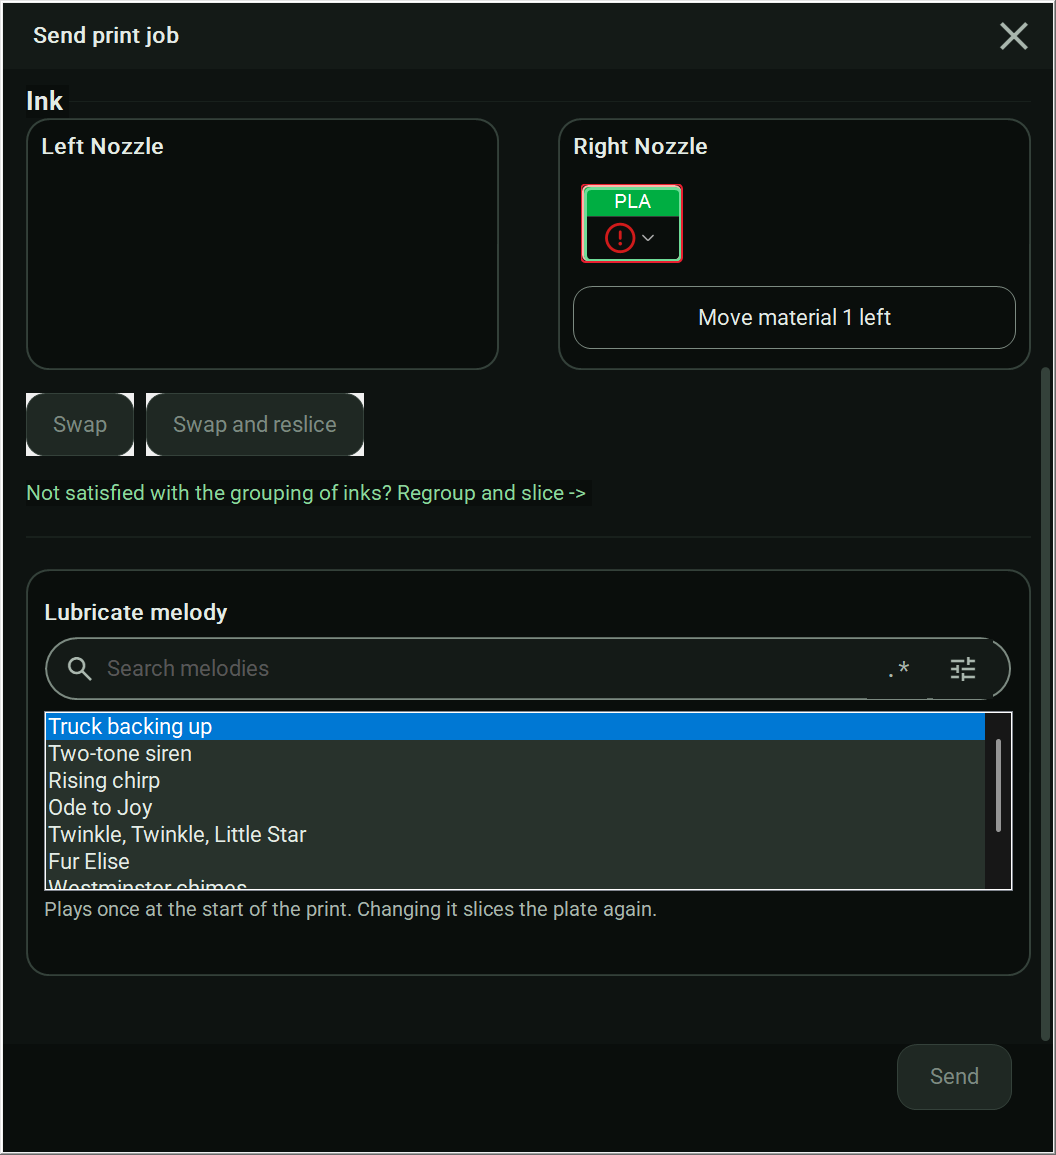
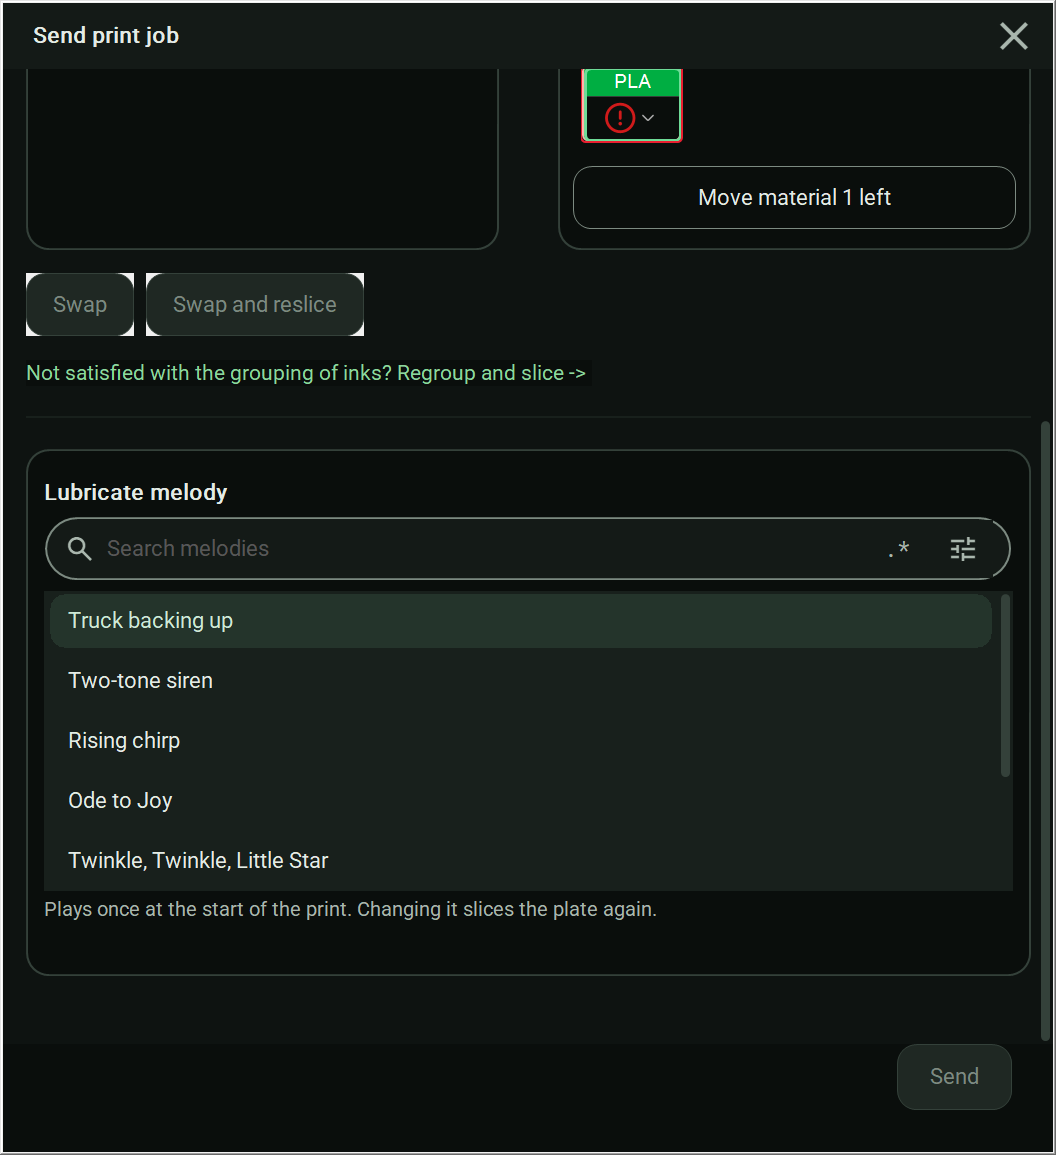
Record lubricate mode in the handoff and refresh its captures
The captures are taken again from the app built from 1b10b4887: the
melody list in its proper green coat, the Process page after a setting
changes (no sideways scroll bar), and the All Plates Stats tile with its
icon sitting above the label instead of on it. The handoff, roadmap and
closeout prompt now say what was checked, what still needs a real H2C,
and that the Device page still scrolls sideways until it is reflowed.

截圖全部用 1b10b4887 砌出嚟嗰個版本重新影過：旋律列表終於換返件綠色
衫，Process 頁改完設定唔會再彈條橫向捲軸出嚟，All Plates Stats 個圖示
都識得企喺標籤上面，唔再坐埋人哋頭上。交接、路線圖同收尾提示都寫清楚
邊啲已經驗過、邊啲要等真 H2C，同埋 Device 頁未重新排版之前仲係會打橫
捲。

diff --git a/CLOSEOUT_PROMPT.md b/CLOSEOUT_PROMPT.md
@@ -1,92 +1,31 @@
 # Current implementation handoff
 
-Continue the approved 117-item required-feature plan. Latest direction removes
-sender drop codes. No upstream merge is authorized. The full goal remains active
-and incomplete; account allowance is unknown.
+Latest work: lubricate mode and print melodies (10 November 2026). The full
+record is the first section of HANDOFF.md and the first section of ROADMAP.md.
 
-## Preserved source
+## State
 
-Remote main 2c2c76f8612a6b7cf3643be8b9bae6da82ec54f9 was read back exactly.
-It includes direct sending, isolated wording storage, Base64 conversion and the
-content-free Preferences probe. Native acceptance remains separate.
+Lubricate mode, the print dialog melody list, melody playback at every print
+start, the design boards, the captures from the built app, the article with its
+Cantonese twin and the catalog strings are all on main. The last source commit,
+1b10b4887, was built with `build.bat -BuildOnly` and checked on a hidden
+desktop: a changed preset no longer adds a horizontal scroll bar on the Process
+page, the melody list uses the app's own list, the search field outline is
+clean, and the All Plates Stats tile draws its icon above its label.
 
-The startup branch gap/startup-nonmodal-20261107 contains reviewed correction
-dc254de965dea8b441a3cab8110b66090ea97694. Automatic restoration uses detached
-conservative admission and nonmodal recovery. Manual imports remain interactive.
-Native-project classification preserves negative-Z and zero-volume geometry.
-Production-function fixtures and causal mutations passed; actual archive parsing,
-preset-editor and native scenario acceptance remain pending. The translated
-notice brings the catalogue to 10,268 entries. This records state before its own commit.
+## Open
 
-The separate hosting-companion branch gap/lan-setup-wizard-20261107 was pushed at
-ed55a003f333ffc01b5879b853f8eedc7d9b6f05. Its portable package ran on a hidden
-desktop against the existing service, preserving identity, storage and settings.
-All five owned processes and its desktop closed normally. Two display defects
-were found. Reviewed correction 9eeafe7dabb4f2b3c5ae7baac66d349f31108862 fixes
-polling, terminal Cancel feedback and verified-image display. It is now pushed
-and verified, with portable SHA-256
-bc1bd891e8e4ebf91e020eeb211997018fefb0d233d1b3f1e4810f5e2b06cbfa.
-Actual hidden runtime reached the healthy result automatically, displayed verified
-identity and retained keyboard access at 640 x 520. All five held processes and
-the desktop closed normally; selected service state stayed unchanged. The current
-main integration records that bounded result, not fresh-setup or full-matrix proof.
+- Run lubricate mode and the melodies on a real H2C and confirm how `M1006 W`
+  paces the moves.
+- Capture the Lubricate confirmation and the button while printing (needs a
+  connected printer), the regex builder popover, and the light theme and
+  Cantonese layouts.
+- Reflow the Device page, which scrolls sideways at 1200x800 because its ink
+  column sits right of the Control column.
+- A long preset name with the changed marker is cut at the right edge of its
+  box.
+- The earlier Cantonese song title wording remains in the history of
+  fa929bfbb; changing it needs a history rewrite, which is not authorized.
 
-## Verified behavior and limits
-
-- Published container 1.0.1 from 601003f9b97d8945732d5a166f8dbe2b061d040f has digest sha256:9382599181a32a5d78730c82b315612fcadc51beacea0ad3b831500e122ce51a.
-- A real browser uploaded a synthetic STL with HTTP 201 and no X-Drop-Code. Six language/viewport tuples passed accessible controls, keyboard, overflow and code-field absence checks.
-- host.bat --detached updated the existing service while preserving station authentication, data volume and queued models. Local and second-host LAN health passed.
-- Packaged 6eb975873 retained a synthetic invalid project tab, opened Untitled and restarted without repeating automatic loading. Its first loader dialogs are addressed only in newer source.
-- A private byte-identical active-project copy passed installed 2.9.1932's native --info reader with exit 0. Original project/configuration stayed unchanged. This does not identify the GUI startup cause.
-- Preferences reopened at 1050 x 720, 96 DPI. Display affinity 17 protects credentials; black images are not layout evidence. The new six-role geometry probe passed source fixtures, negative mutations and actual wx-header compilation, not linked native acceptance.
-- Base64 core checks passed 363 assertions and two causal mutations. Native picker/drop, folder action, packaged worker, streaming and remaining variants are unfinished.
-
-## Producers and delivery
-
-The primary checkout is a live producer pinned to 2c2c76f8612a6b7cf3643be8b9bae6da82ec54f9. The older 4f7039f6 producer compiled the GUI but failed linking because ignored OpenCASCADE cache metadata referenced an obsolete checkout. Its metadata was backed up, two references were relocated to the existing verified freetype library, and the current root build is running. Do not alter primary source/index/branch until completion.
-
-Run 42419260043 produced downloaded installer 2.9.1936 from f1526f802.
-Setup SHA-256 is 6e9abd326b9580fbfbae51c30788c1814d066df77bee71eef3206efc1faf0777;
-NotSigned. RELEASES matches the 800,258,329-byte full package and SHA-1
-8769869A70D784E2FCFF25DEB19AAD92E8783776. Embedded metadata names exact source
-f1526f80268c67df5a6ff196b865b7b0118412cb. Normal release md3-v261 was published at 23:34:33 UTC with exact source f1526f802
-and matching published Setup hash. The matching existing installation updated from 2.9.1932 to 2.9.1936 through supported silent Setup. Installed executable/DLL hashes matched and the real hidden workspace was ready. Prior full package/index were retained for rollback. All held verification processes and both desktops closed normally. Complete transient installer audit and updater-banner sequencing remain unverified. Runs 42420781736 (d73) and
-42422172095 (825) are separate newer producers.
-
-## Next actions
-
-1. Startup source/documentation are integrated. Finish the newer native scenarios with exact source/binary binding.
-2. Wizard rebuild and existing-service runtime passed. Reviewed publisher ca9b96968ef3a7116512e68465fae0377348e647 is preserved on gap/lan-setup-publication-20261107 and included in this integration. Its first hosted publication, fresh setup, cancellation and full language/theme/scale matrix remain pending.
-3. The public-safe inventory has passed independent review and is incorporated with 117 identities, nine classes, 28 historical surfaces and 15 legacy crosswalks. Nine negative consistency checks passed. Complete individual applicability, nested dialogs, Settings consumers and runtime evidence next; no implementation completeness is claimed.
-4. Verify normal release, immutable tag/source and assets before updating the matching existing installation through its supported route. Preserve settings, data, rollback and active work.
-5. Complete native invite, cache-isolation, sound and Base64 acceptance. Keep the complete required-feature goal explicitly unfinished.
-
-The HTTP LAN sender still reports an ignored COOP header warning. Four baseline
-process trees closed normally but their empty desktops remain retained; sender
-browser teardown has an incomplete process-tree receipt. Full publication scanning
-has baseline technical-name/nested-repository/parser limits; scoped scans are not
-blanket proof. Status Hub SSH delivery lacks a verified host-local update client.
-
-Two f152 candidate launches were normally closed. The first synthetic profile
-omitted its terminal LF and triggered an unchanged settings-parser exception.
-The corrected run's readiness check selected a hidden preconstructed Settings
-window and did not obtain a main-workspace image. It does not establish a product
-regression or visible workspace acceptance. The final method-corrected attempt
-verified the actual main workspace in 27.364 seconds and opened Preferences.
-Its visible Preferences window has display affinity 17; the black image is not
-a rendering defect. All 16 held processes and the desktop closed normally.
-Detailed LAN invite and wording workflows remain unverified; the accepted installed update is applied and its ready workspace verified. The current small source correction
-removes the external-editor Browse button's duplicate download-path accessible
-name. Native assistive-technology verification remains pending.
-
-Preserve source and private evidence. No force pushes, private wording publication,
-host power/login actions, capture-protection changes or cleanup of active,
-unrelated or unproven candidates. Verify each intended push by exact remote-ref readback.
-
-The untracked runtime log log_iotc.txt was moved to private verification storage after exclusive-open and hash-preservation checks. It was not published or ignored to conceal source. The primary source tree was clean before the current build.
-
-First portable publisher run 42425950237 failed before packaging because Get-FileHash was unavailable in the child shell. No companion release exists from that run. Bounded diagnostics were retained; the exact parent-shell cause was reproduced and correction 5ae1162b41ae8f22f5fcf476c950966814dd01a7 changes only the workflow build shell to cmd. Its owning branch was pushed and read back. Hosted verification is pending.
-
-Reviewed bounded Settings consumer coverage is now preserved in design/settings-consumer-coverage.json, tied to baf9303d. It covers 21 groups and 23 identities, 85 setting candidates, 21 headings and reset-list evidence. All 117 identities remain, with 94 mappings pending and all runtime claims unverified. Two conditional argument extractions and the external-editor selector were corrected by independent review. Continue per-control consumers, persistence/reset/recovery and actual native verification.
-
-Installed personal wording passed actual picker import, isolated cache equality, restart retention, invalid-input preservation, neutral replacement and Clear/original-status checks. Both process trees/desktops closed normally. A preliminary hidden-label substring inference was withdrawn in a preserved correction receipt; neither hidden nor visible mapping is accepted from that comparison. Clear-after-restart, sound outcomes, export/log privacy and complete display proof remain pending.
+Earlier open work from the 117-item required-feature plan is unchanged and is
+listed in HANDOFF.md and ROADMAP.md.

diff --git a/design/lubricate-2026-11/captures/README.md b/design/lubricate-2026-11/captures/README.md
@@ -10,7 +10,9 @@ was kept. The commit in each row is the source the app was built from.
 | [process-tabs.png](process-tabs.png) | The Process page on first open: both rows of setting categories show, Support and Others included | `4c418ea3a` |
 | [lubricate-mode-on.png](lubricate-mode-on.png) | Others page, Special mode: Lubricate mode under Express print mode, switched on and marked as changed | `a4f0de812` |
 | [device-lubricate-button.png](device-lubricate-button.png) | Device page at 1700x1000: the Lubricate button under the jog grid, disabled because no printer is connected | `a4f0de812` (before the gap under the button was added) |
-| [melody-picker.png](melody-picker.png) | Print dialog: Lubricate melody with the search field, its regex toggle and builder button, the list with Truck backing up chosen, and the note for lubricate mode off | `4c418ea3a` |
+| [melody-picker.png](melody-picker.png) | Print dialog: Lubricate melody with the search field, its regex toggle and builder button, the themed list with Truck backing up chosen, and the note for lubricate mode off | `1b10b4887` |
+| [process-after-change.png](process-after-change.png) | Others page after a setting changed: the preset reads as modified and no horizontal scroll bar appears under the settings | `1b10b4887` |
+| [all-plates-stats-tile.png](all-plates-stats-tile.png) | Preview with two sliced plates: the All Plates Stats tile draws its icon above the label | `1b10b4887` |
 | [melody-search.png](melody-search.png) | Plain search `tw`: Two-tone siren and Twinkle, Twinkle, Little Star | `4c418ea3a` |
 | [melody-regex.png](melody-regex.png) | Regex search `^(Ode\|Fur)`: Ode to Joy and Fur Elise only | `4ff4dfaf2` |
 | [melody-no-match.png](melody-no-match.png) | Plain search `banjo`: empty list and "No melody matches the search." | `4ff4dfaf2` |
@@ -28,8 +30,14 @@ wrote the routine straight after `G28 Z P0 T250` in the start G-code, with
 
 ## Differences from the boards and open layout issues
 
-- The melody list is the native Windows list box (blue selection, white border), not the green
-  rounded rows on the MelodyPicker board.
-- At 1200x800 the Device page's Control column runs past the right edge of the window.
-- The search field draws small light marks around its clear, regex and builder buttons.
-- After a setting on the Process page changes, a horizontal scroll bar appears under the settings.
+Fixed and captured again on `1b10b4887`: the melody list now uses the app's own list with
+rounded green rows, the search field's buttons no longer draw marks over its outline, a changed
+setting no longer adds a horizontal scroll bar on the Process page, and the All Plates Stats
+icon no longer overlaps its label.
+
+Still open:
+
+- At 1200x800 the Device page scrolls sideways. Its status panel asks for about 2100 px because
+  the ink column sits to the right of the Control column; fixing it means reflowing that page,
+  which is outside this change.
+- A long preset name with the changed marker is cut at the right edge of its box.

diff --git a/HANDOFF.md b/HANDOFF.md
@@ -1,5 +1,37 @@
 # Bambu Studio handoff
 
+## Lubricate mode and print melodies, 10 November 2026
+
+Lubricate mode runs the bed and toolhead through their full travel so fresh grease spreads along
+the rails and lead screws: at the start of every print when the Others > Special mode option is on,
+and on demand from the Lubricate button under the Device page jog grid. While the bed moves, a
+Bambu Lab printer beeps like a truck backing up, or plays another melody chosen in the print
+dialog's list (search field, regex toggle, shared regex builder). The chosen melody plays at the
+start of every print whatever mode is on. The Bambu Lab H2C is the main target. The article is
+`docs/features/windows/lubricate-mode.md` with its Cantonese twin; the design boards and the
+captures from the built app are in `design/lubricate-2026-11/`.
+
+Commits: `48f87b54c` (routine and option), `306b8321d` (skip conditional homing lines),
+`fa929bfbb` (melody picker), `92ef659fb` (melody at every start), `a4f0de812` (boards),
+`4c418ea3a` (picker without a printer, hidden Process tabs), `4ff4dfaf2` (one regex pass per
+melody), `034f53271` (captures), `fde4fb482` (kit list for melodies, search field outline),
+`5d1b76fdd` (article and catalog), `1b10b4887` (changed preset no longer widens the sidebar,
+All Plates Stats tile icon).
+
+Checked on the app built from `1b10b4887` on a hidden desktop: slicing a cube for the H2C places
+the routine after `G28 Z P0 T250` with one buzzer note before each bed segment; the option, the
+Device button, the picker with plain, regex and no-match searches, the Process page after a change
+and the All Plates Stats tile were captured and looked at. Not checked: a run on a real printer
+(including whether `M1006 W` waits for the note before the next move), the Lubricate confirmation
+and the button while printing (both need a printer), the regex builder popover on the hidden
+desktop, and the light theme and Cantonese layouts.
+
+Corrections: the message of `fde4fb482` says the Device page no longer scrolls sideways; that was
+wrong and `1b10b4887` restores the page's minimum width. The page still scrolls sideways at
+1200x800 because its ink column sits right of the Control column; fixing it needs a reflow of
+that page. The Cantonese catalog entry for the song title was reworded in `5d1b76fdd`; the earlier
+wording stays in the history of `fa929bfbb`, which can only change by rewriting published history.
+
 ## Base64 per-file controls and media preview, 9 November 2026
 
 The Files tab can pause, resume or cancel one file alone (buttons on the selected row and the

diff --git a/ROADMAP.md b/ROADMAP.md
@@ -1,5 +1,17 @@
 # Roadmap
 
+## Lubricate mode and print melodies, 10 November 2026
+
+- [x] Add lubricate mode at the start of every print and as a Device page button, with the routine placed after the last full homing command.
+- [x] Add the print dialog melody list with search, regex and the shared builder, and play the chosen melody at every start in every mode.
+- [x] Make the Bambu Lab H2C the main target and check its start G-code with a sliced cube.
+- [x] Draw the design boards and capture the new features from the built app.
+- [x] Write the article and its Cantonese twin, and translate every new string.
+- [ ] Run lubricate mode and each melody on a real H2C and confirm how `M1006 W` paces the moves.
+- [ ] Capture the Lubricate confirmation and the button while printing with a printer connected.
+- [ ] Reflow the Device page so it no longer scrolls sideways at 1200x800.
+- [ ] Capture the light theme and Cantonese layouts of the new screens.
+
 ## Local tools and the last unbuilt features, 8 November 2026
 
 - [x] Build the Every feature page, Preferences provenance and its remake (section reset, import, undo, related settings, playground, section counts), job names in your own wording, the Base64 toolkit, the practical setup wizard, extensions with the check before a print is sent, live charts, element locks, attention modes, the drawing board, live menu controls, virtual disks and Minecraft servers, each with an article, a Cantonese twin, a board and checks.
